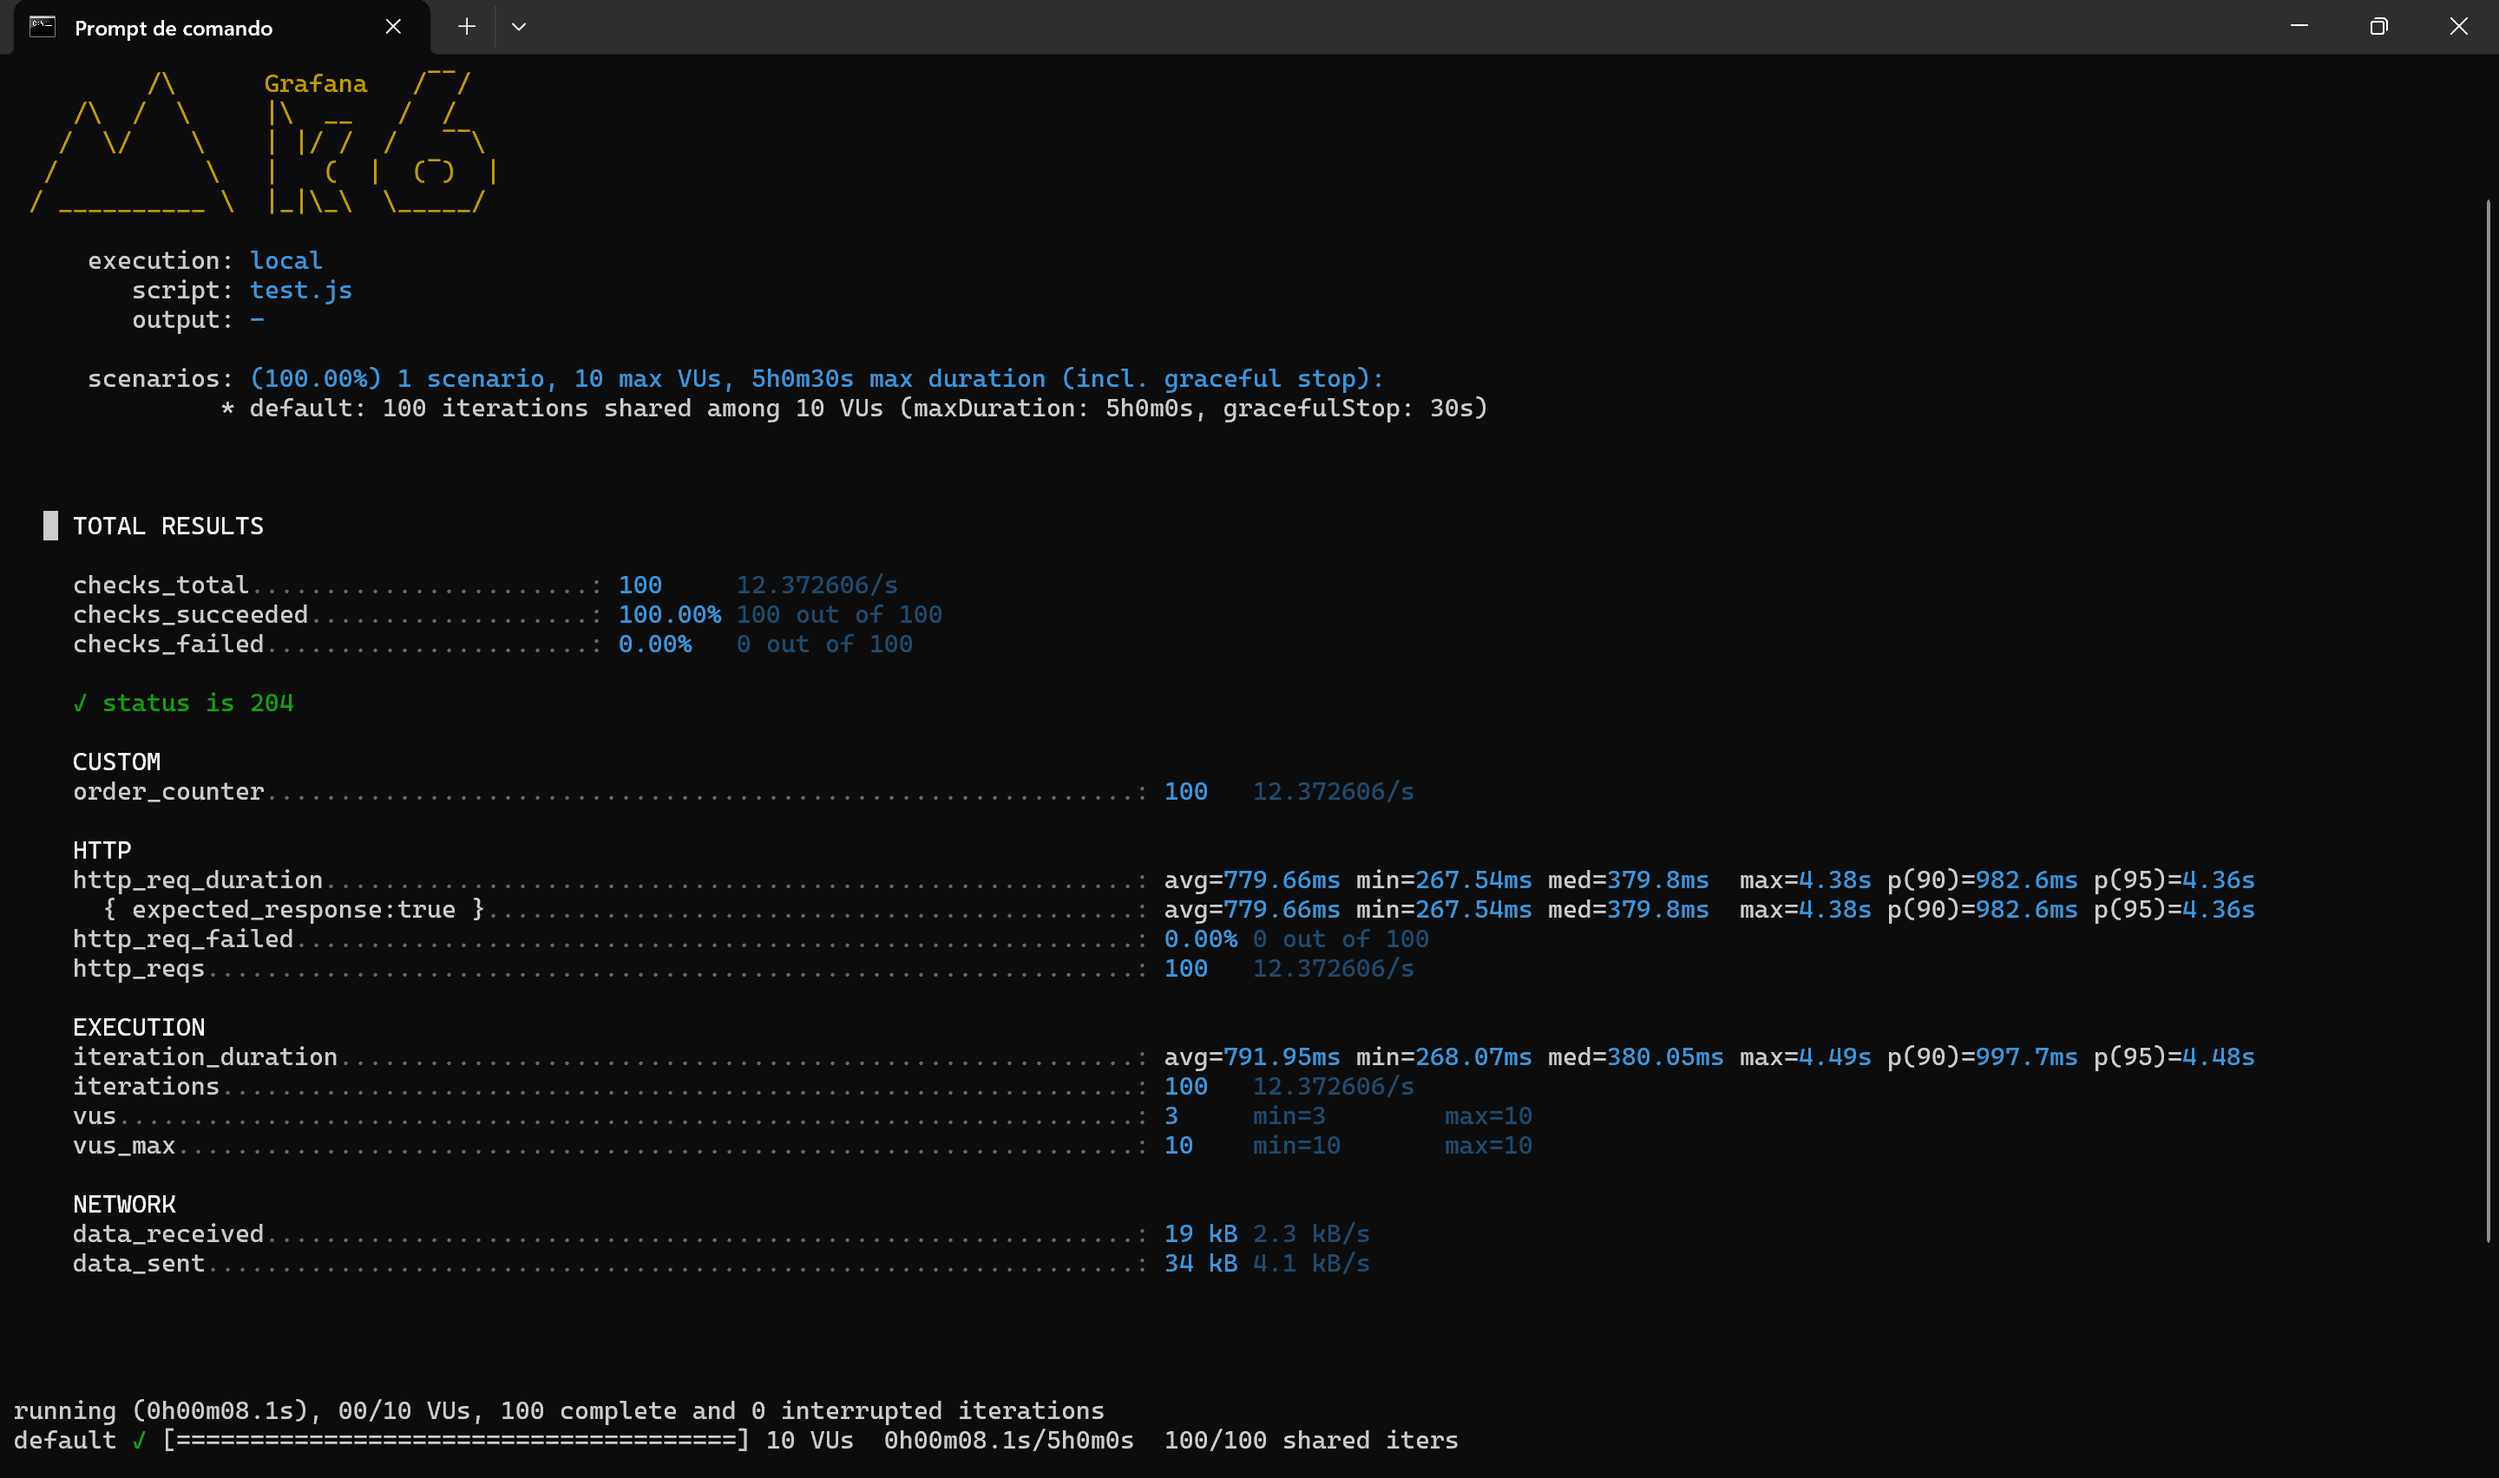
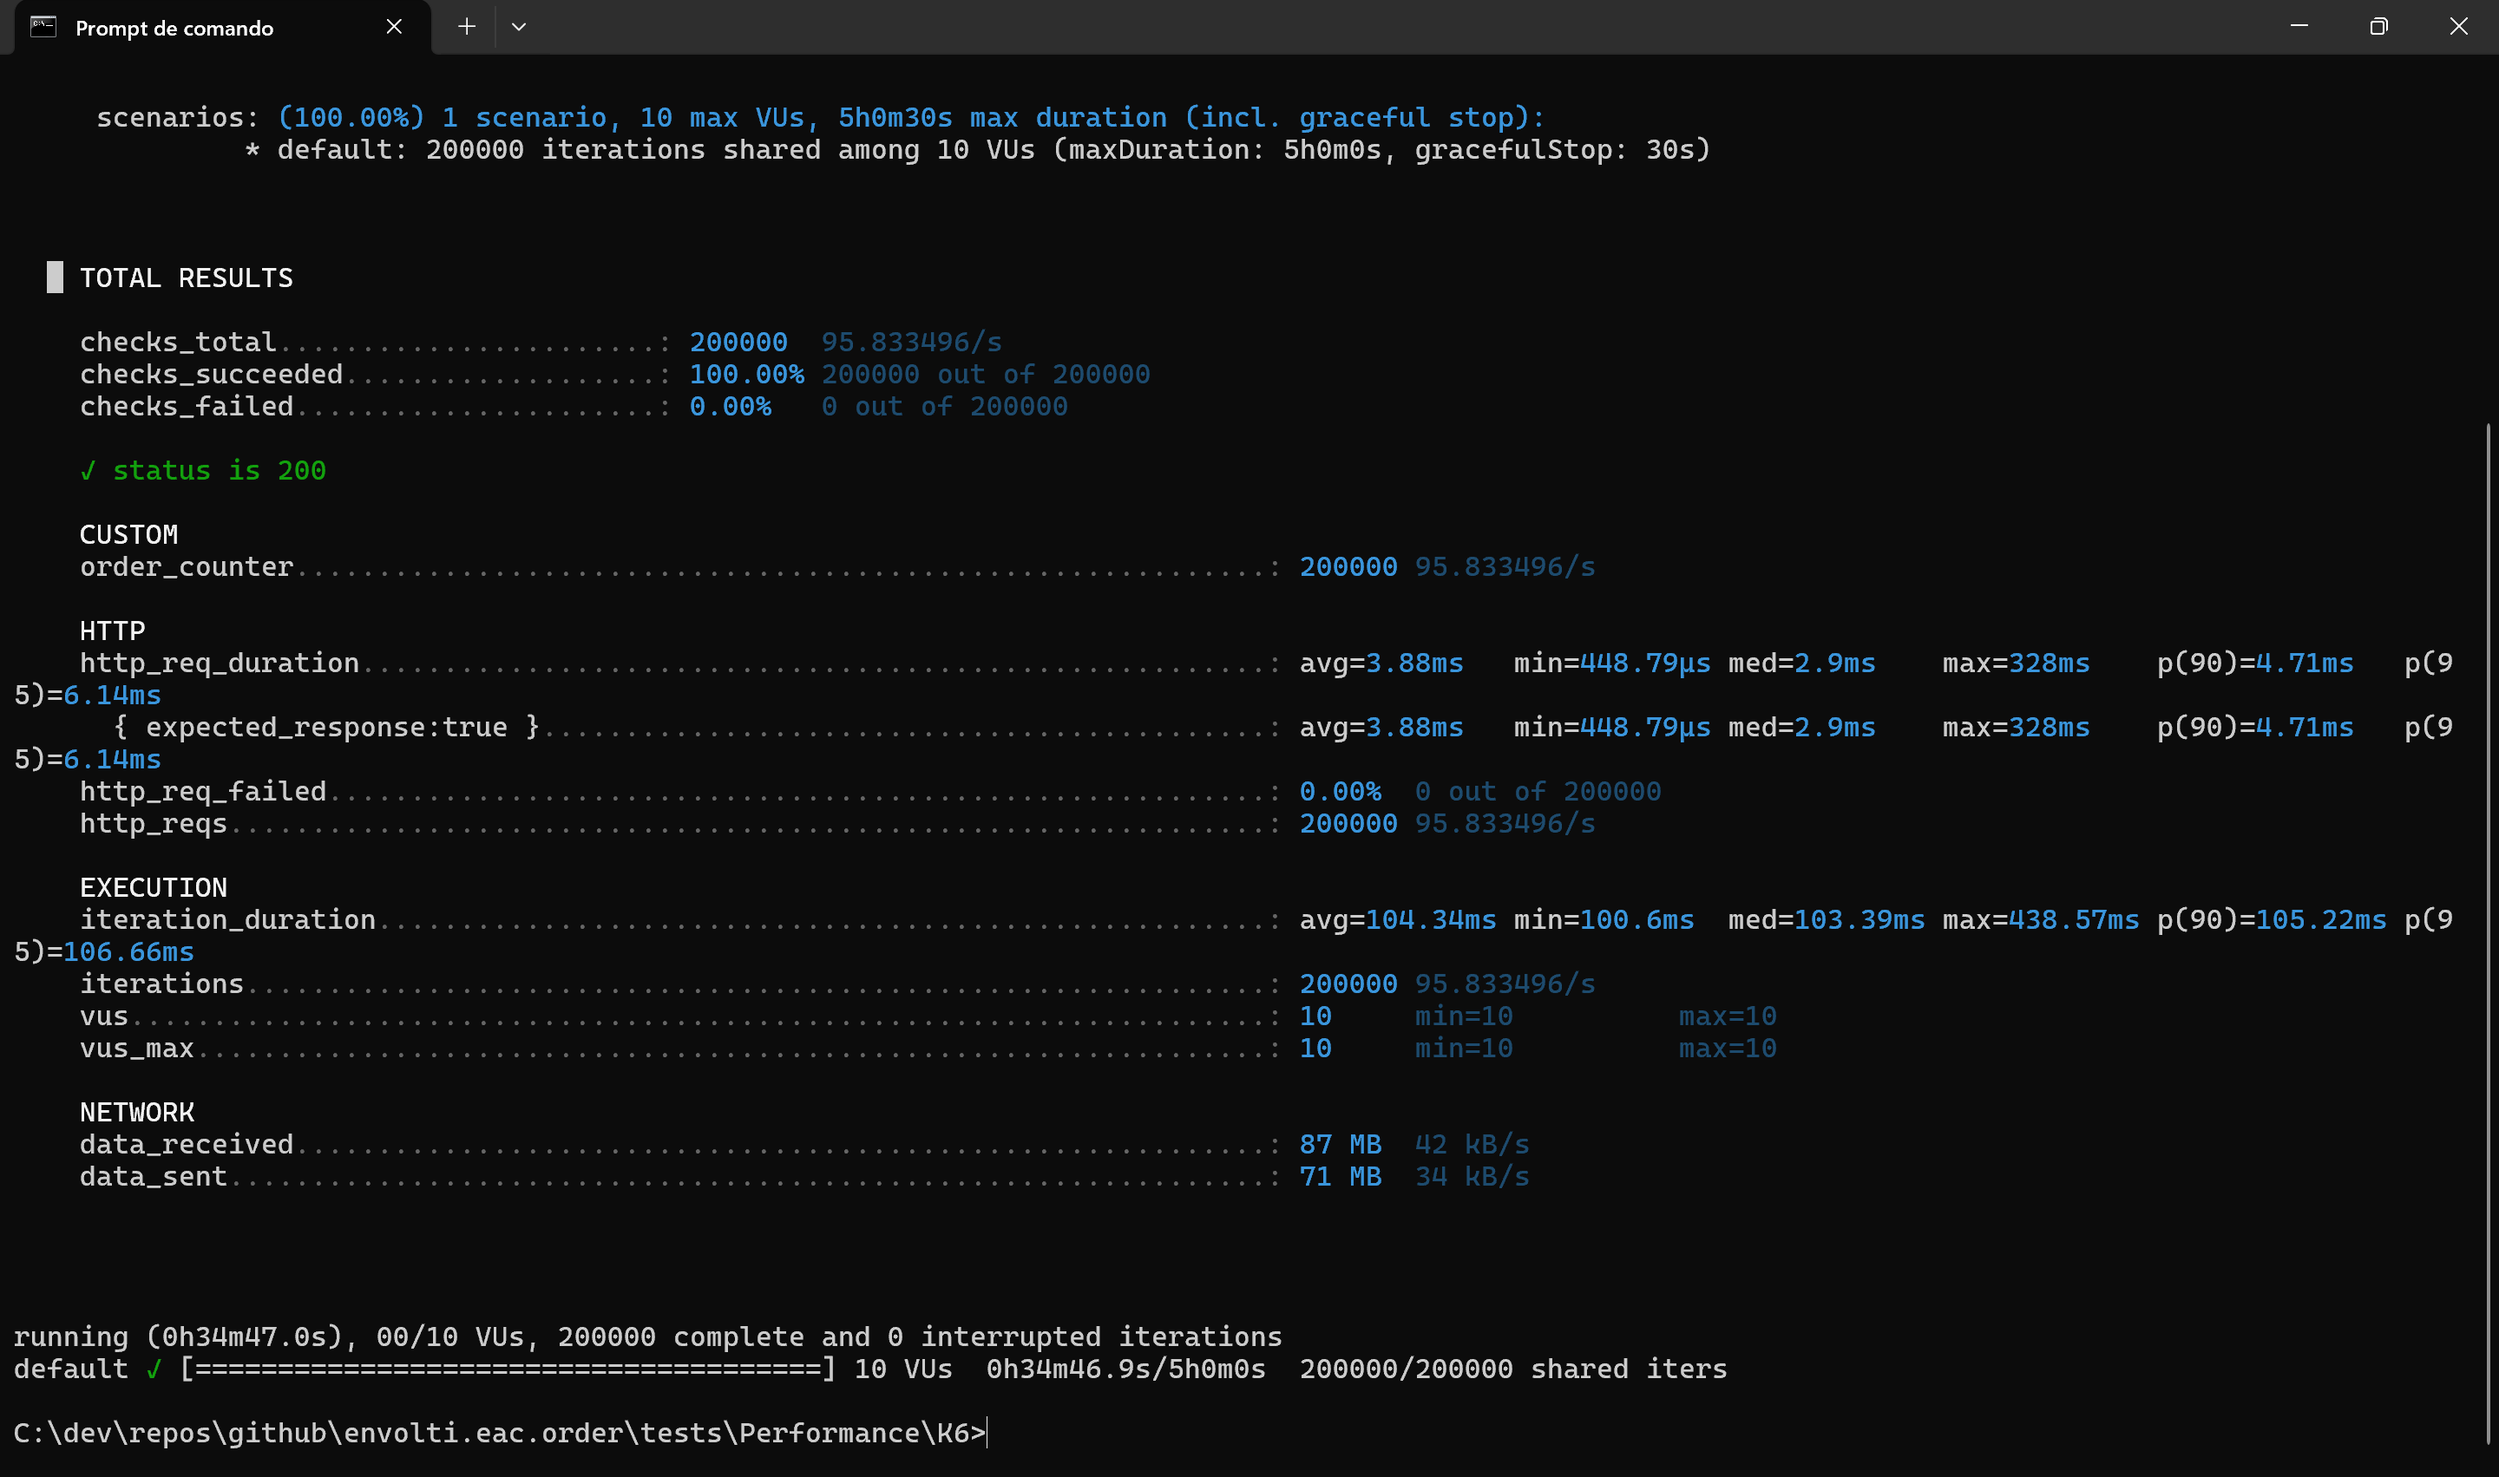
Atualizado dados levando em considerações 200 mil requisições

diff --git a/README.md b/README.md
@@ -109,6 +109,9 @@ docker-compose up -d
 
 Rodar 200 mil requisições por dia (ou ~2,3 requisições por segundo em média)
 
+- Tempo total de requisições: 2.087 segundos (34 × 60 + 47 = 2.087 segundos)
+- Tempo médio de requisição: 10,4 ms (2087 segundos ÷ 200.000 requisições ≈ 0,0104 segundos por requisição)
+
 ![Sou uma imagem](Tests.png)
 
 ### Desenho da Arquitetura
